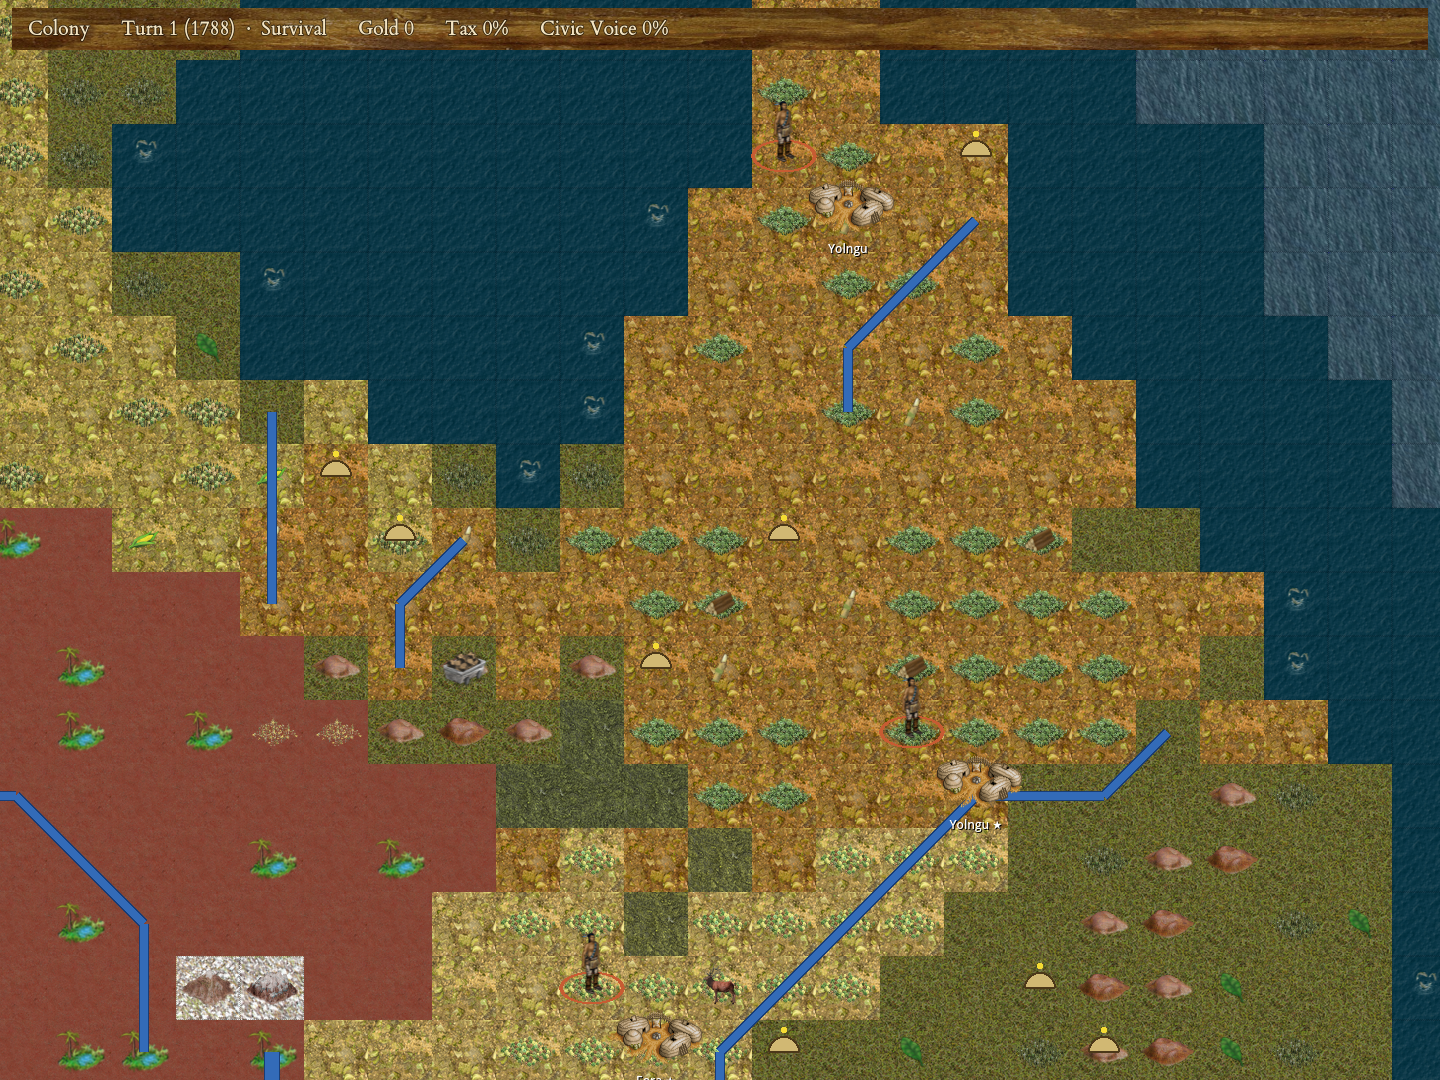
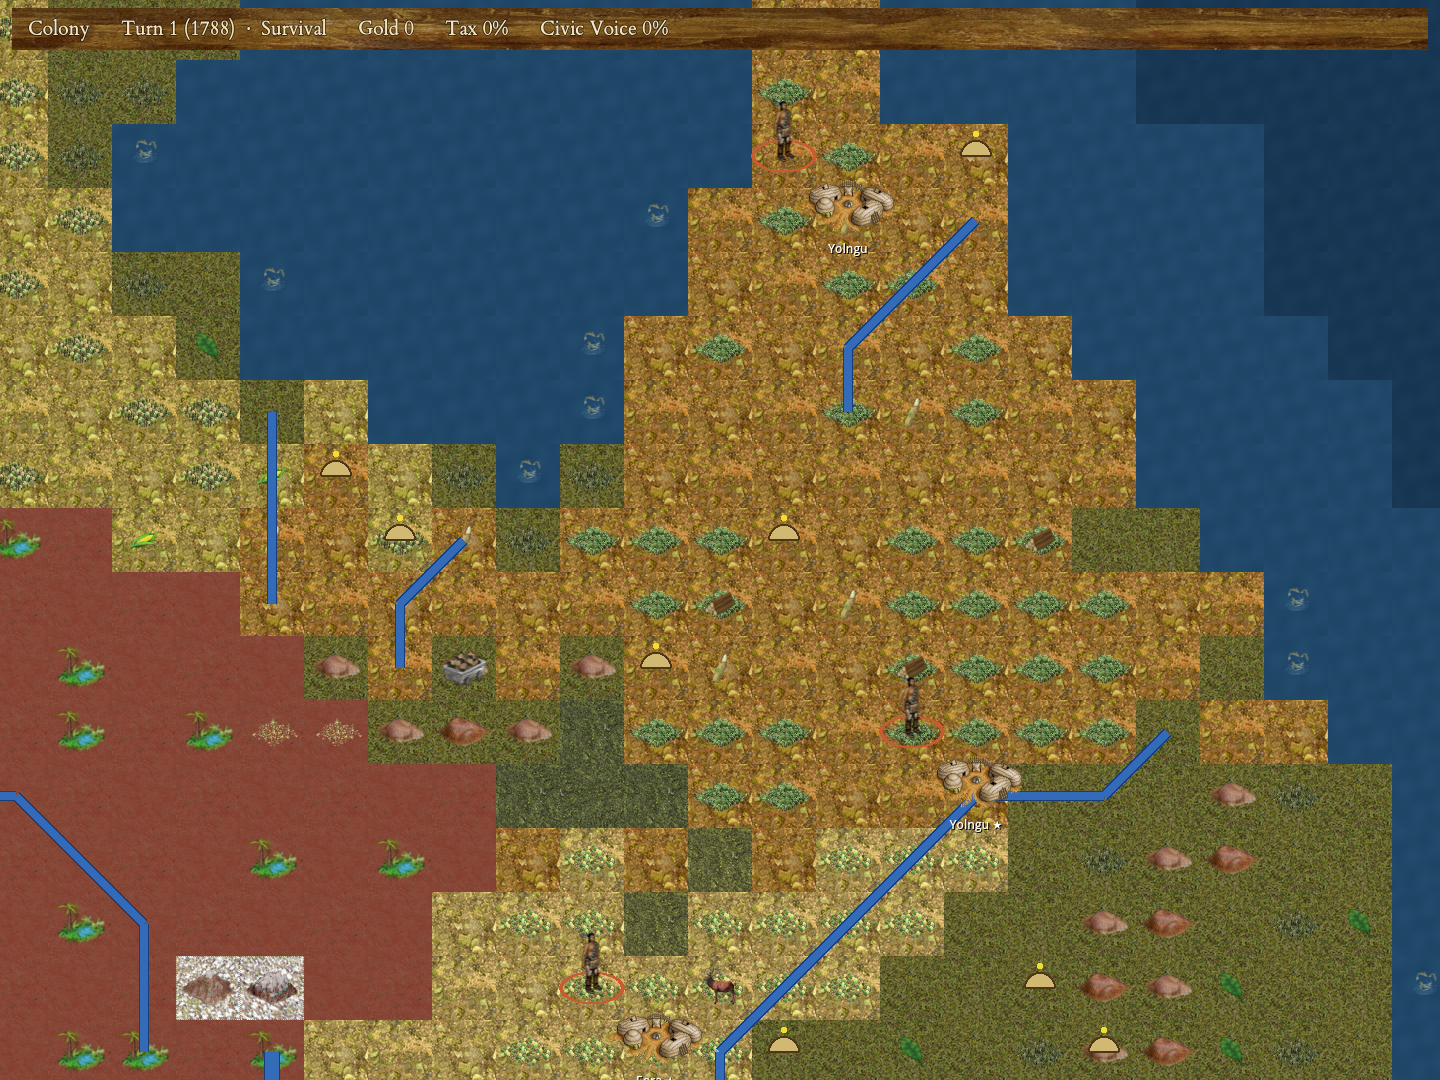
fix(australia): square water tiles for top-down + a correct top-down before/after
Chris: "those textures do not look correct in the new version, they are isometric
still in the images you gave me." He was right on both counts.

1. THE BEFORE IMAGE I SENT WAS WRONG. Measured against the isometric capture it
   differs by 0.27 mean — i.e. that "top-down before" rendered in ISOMETRIC, so the
   pair was not like-for-like and my claim about visible de-skew seams in it was not
   evidenced by it. Re-captured properly: the before is now taken with the square
   tiles temporarily removed, so it genuinely exercises the de-skew path.

   For the record, the top-down path itself is correct — a lattice autocorrelation
   of the two renders peaks at (64,32)/(128,0) for isometric (diamond) and (64,64)
   for top-down (square).

2. A LOT OF WHAT HE WAS LOOKING AT WAS STILL ISOMETRIC ART — above all the OCEAN,
   which covers a big share of the screen because the Australia map is mostly
   coastline, and which de-skewed into obvious diagonal wave artefacts. Water now
   has native square tiles.

Water is PROCEDURAL rather than sourced: ambientCG is a PBR library with no usable
sea texture (water is a shader, not an image), so these are our own original work
(GPL v2, no third-party licence) — tileable sinusoidal noise, seamless by
construction. Deliberately very low contrast: a first attempt with a wide
trough/crest range produced strong diagonal banding that read WORSE than what it
replaced, which is exactly the failure mode being fixed here.
[…]

Changed region(s): [[0.5938, 0.0, 1.0, 1.0], [0.0625, 0.0, 0.5312, 0.4889]]

diff --git a/tools/build_topdown_terrain.py b/tools/build_topdown_terrain.py
@@ -38,9 +38,44 @@ PLAN = {
     "swamp":     ("Ground048", 68, 1.0, 1.05),
     "hills":     ("Rock061",   22, 1.9, 1.25),   # grey rock -> red-brown
     "mountains": ("Rock061",   20, 1.8, 1.10),
-    # ocean / high seas / arctic / tundra deliberately absent: they fall back to the
-    # de-skewed FreeCol tile, which is fine for water and never appears for the polar types.
+    # arctic / tundra deliberately absent: they never appear on the Australia map, so they fall
+    # back to the de-skewed FreeCol tile.
 }
+
+# Water gets PROCEDURAL square tiles rather than sourced ones. ambientCG is a PBR material library
+# and has no usable sea texture (water is normally a shader, not an image), and the de-skewed
+# FreeCol ocean shows obvious diagonal wave artefacts in top-down — over a big share of the screen,
+# since the Australia map is mostly coastline. These are our own original work (GPL v2, no third-party
+# licence involved): tileable sinusoidal noise, so they are seamless by construction.
+# Kept DELIBERATELY subtle. A first attempt with a wide trough/crest range produced strong diagonal
+# banding that read worse than the artefacts it replaced — at strategy-map scale the sea should be a
+# near-flat colour with only a hint of movement, not a wave pattern.
+WATER = {
+    "ocean":    ((30, 68, 100), (35, 76, 110)),  # (trough, crest) — coastal sea
+    "highSeas": ((22, 52, 80), (26, 59, 89)),    # darker open ocean
+}
+
+def water_tile(dark, light, side=64, seed=0):
+    """A seamless 64px sea tile: a sum of sinusoids at INTEGER frequencies over the tile, so the
+    pattern wraps exactly at the edges and no seam can appear however it is tiled."""
+    import math
+    im = Image.new("RGBA", (side, side))
+    px = im.load()
+    # Mixed opposing diagonals + one axis-aligned term, so no single direction dominates and the
+    # result reads as mottling rather than as banding.
+    waves = [(1, 2, 0.34), (2, -1, 0.30), (3, 1, 0.20), (0, 3, 0.16)]  # (fx, fy, weight)
+    for y in range(side):
+        for x in range(side):
+            v = 0.0
+            for fx, fy, w in waves:
+                v += w * math.sin(2*math.pi*(fx*x/side + fy*y/side) + seed)
+            t = (v + 1.0) / 2.0
+            px[x, y] = (
+                int(dark[0] + (light[0]-dark[0])*t),
+                int(dark[1] + (light[1]-dark[1])*t),
+                int(dark[2] + (light[2]-dark[2])*t),
+                255)
+    return im
 
 def retone(im, target_hue, sat_mul, val_mul):
     im = im.convert("RGBA")
@@ -81,4 +116,13 @@ for terrain, (source, hue, sat, val) in PLAN.items():
         retone(Image.open(variant), hue, sat, val).save(os.path.join(d, f"top{idx}.png"))
         made += 1
     print(f"  {terrain:10} <- {source} (2 variants)")
+
+for terrain, (dark, light) in WATER.items():
+    d = os.path.join(DST, terrain)
+    os.makedirs(d, exist_ok=True)
+    for idx2 in (0, 1):
+        water_tile(dark, light, seed=idx2 * 1.7).save(os.path.join(d, f"top{idx2}.png"))
+        made += 1
+    print(f"  {terrain:10} <- procedural seamless water (2 variants)")
+
 print(f"\n{made} top-down tiles written")

diff --git a/game/presentation/tests/ColonyArtTests.cs b/game/presentation/tests/ColonyArtTests.cs
@@ -227,9 +227,14 @@ public class ColonyArtTests
                     .OverrideFailureMessage($"{terrain} needs a SECOND top-down variant or the biome tiles visibly repeat").IsNotNull();
             }
 
-            // Ocean has no square tile on purpose — it must fall back to the de-skewed diamond, not vanish.
-            AssertThat(ColonyArt.LoadTexture("terrain/ocean/top0.png")).IsNull();
-            AssertThat(ColonyArt.LoadTexture("terrain/ocean/center0.png")).IsNotNull();
+            // Water gets square tiles too: the de-skewed FreeCol ocean showed diagonal wave artefacts across a big
+            // share of the screen, since the Australia map is mostly coastline.
+            AssertThat(ColonyArt.LoadTexture("terrain/ocean/top0.png")).IsNotNull();
+            AssertThat(ColonyArt.LoadTexture("terrain/highSeas/top0.png")).IsNotNull();
+
+            // Arctic has none on purpose — it must fall back to the de-skewed diamond, not vanish.
+            AssertThat(ColonyArt.LoadTexture("terrain/arctic/top0.png")).IsNull();
+            AssertThat(ColonyArt.LoadTexture("terrain/arctic/center0.png")).IsNotNull();
 
             // Classic ships no square tiles at all — its top-down keeps de-skewing, unchanged.
             ColonyArt.VariantArtRoot = null;

diff --git a/game/assets/australia/PROVENANCE.md b/game/assets/australia/PROVENANCE.md
@@ -67,7 +67,14 @@ part of each source image was ever sampled.
 | grassland | `Grass004` | dry gold pasture |
 | marsh / swamp | `Ground048` | olive wetland |
 | hills / mountains | `Rock061` | red-brown rock |
-| ocean, high seas, arctic, tundra | *(none)* | fall back to the de-skewed FreeCol tile |
+| ocean, high seas | *(procedural — our own work, GPL v2)* | flat coastal / open sea |
+| arctic, tundra | *(none)* | fall back to the de-skewed FreeCol tile |
+
+**Water is procedurally generated, not sourced.** ambientCG is a PBR material library and has no usable sea texture
+(water is normally a shader, not an image), and the de-skewed FreeCol ocean showed obvious diagonal wave artefacts
+across a large share of the screen — the Australia map is mostly coastline. The water tiles are tileable sinusoidal
+noise from `build_topdown_terrain.py`, seamless by construction and **deliberately very low contrast**: a first attempt
+with a wide trough/crest range produced strong diagonal banding that read *worse* than the artefacts it replaced.
 
 Pipeline: [`tools/build_topdown_terrain.py`](../../../tools/build_topdown_terrain.py), with the CC0 inputs committed under
 `tools/cc0-ground/` so it runs offline and reproducibly.
